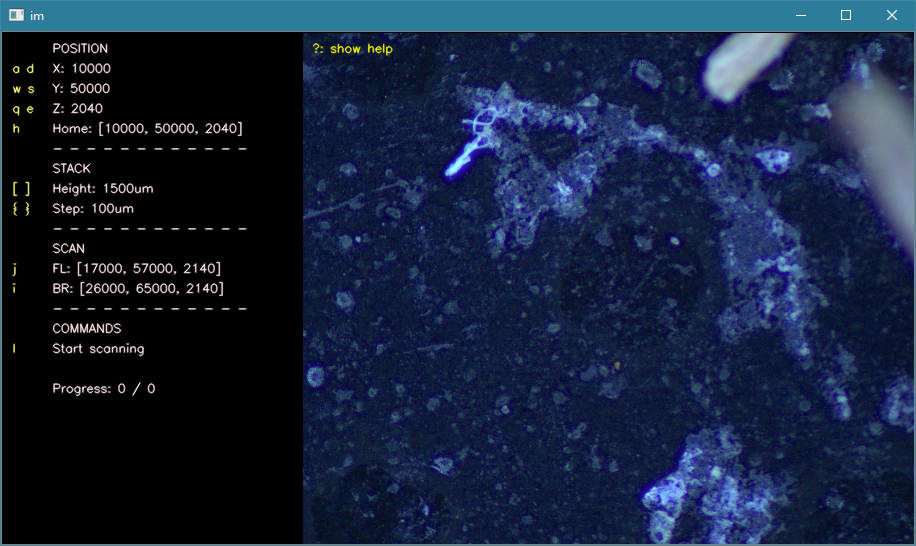
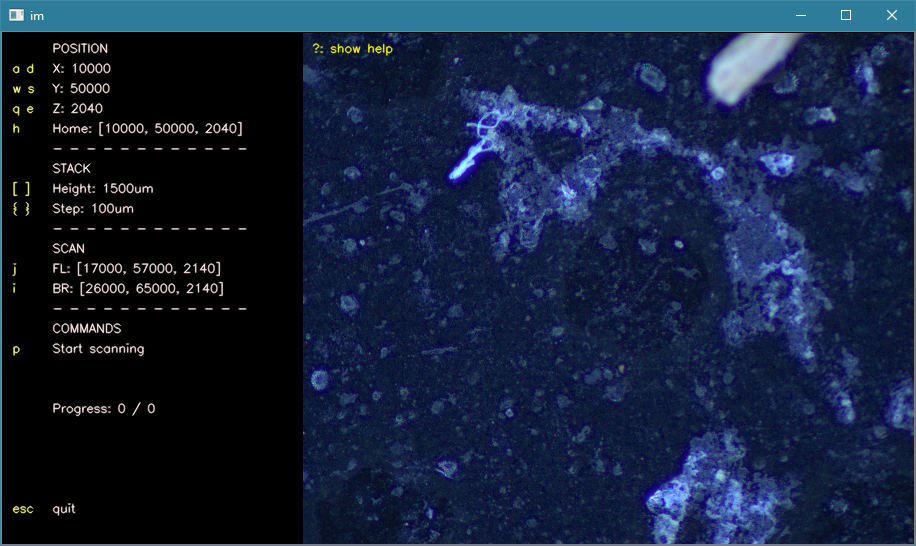
first release

diff --git a/python/sashimi/controller.py b/python/sashimi/controller.py
@@ -56,7 +56,7 @@ class Controller(object):
         self.MOVE_SCAN_BL = ord('U')
         self.MOVE_SCAN_BR = ord('I')
         self.MOVE_SCAN_FR = ord('K')
-        self.SCAN = ord('l')
+        self.SCAN = ord('p')
 
         self.HELP1 = ord('?')
         self.HELP2 = ord('/')
@@ -263,8 +263,13 @@ class Controller(object):
                 "COMMANDS",
                 f"{scan_command}",
                 "",
-                ""
-                f"Progress: {self.scanner.current_stack} / {self.scanner.total_stacks}"
+                "",
+                f"Progress: {self.scanner.current_stack} / {self.scanner.total_stacks}",
+                "",
+                "",
+                "",
+                "",
+                "quit"
             ]
         elif self.lang == "fr":
             text_status = [
@@ -285,8 +290,13 @@ class Controller(object):
                 "DEMANDES",
                 f"{scan_command}",
                 "",
-                ""
-                f"Course: {self.scanner.current_stack} / {self.scanner.total_stacks}"
+                "",
+                f"Course: {self.scanner.current_stack} / {self.scanner.total_stacks}",
+                "",
+                "",
+                "",
+                "",
+                "quitter"
             ]
 
         for i, t in enumerate(text_status):
@@ -310,7 +320,15 @@ class Controller(object):
                 "i",
                 "",
                 "",
-                "l",
+                "p",
+                "",
+                "",
+                "",
+                "",
+                "",
+                "",
+                "",
+                "esc"
             ]
         elif self.lang == "fr":
             text_button = [
@@ -329,7 +347,15 @@ class Controller(object):
                 "i",
                 "",
                 "",
-                "l",
+                "p",
+                "",
+                "",
+                "",
+                "",
+                "",
+                "",
+                "",
+                "esc"
             ]
         for i, t in enumerate(text_button):
             cv2.putText(im, t, (10, i * 20 + 20), cv2.FONT_HERSHEY_SIMPLEX, 0.4, (120, 255, 255), 1, cv2.LINE_AA)
@@ -346,7 +372,7 @@ class Controller(object):
                     "j/J: set/goto scan front left",
                     "i/I: set/goto scan back right",
                     "enter: take stack",
-                    "l: start/stop scan",
+                    "p: start/stop scan",
                     "esc: quit",
                     "?: close help",
                 ]
@@ -360,7 +386,7 @@ class Controller(object):
                     "j/J: fixer/aller a l'avant-gauche de la zone de scan",
                     "i/I: fixer/aller a l'arriere droit de la zone de scan",
                     "entree: faire une pile",
-                    "l:  demarrer/arreter un scan",
+                    "p:  demarrer/arreter un scan",
                     "esc: quitter",
                     "?: se fermer",
                 ]

diff --git a/python/sashimi/main.py b/python/sashimi/main.py
@@ -1,4 +1,4 @@
 from sashimi.controller import Controller
 
-controller = Controller("../images", "COM3", "fr")
+controller = Controller("../images", "COM3", "en")
 controller.start()

diff --git a/README.md b/README.md
@@ -168,7 +168,7 @@ Calibration normally only needs to be done infrequently.
 
 ### 5. Start scan
 
-Press `l` to start the scan. The progress will be displayed on screen.
+Press `p` to start the scan. The progress will be displayed on screen.
 
 ### 6. Fuse images (laplacian pyramid)
 
